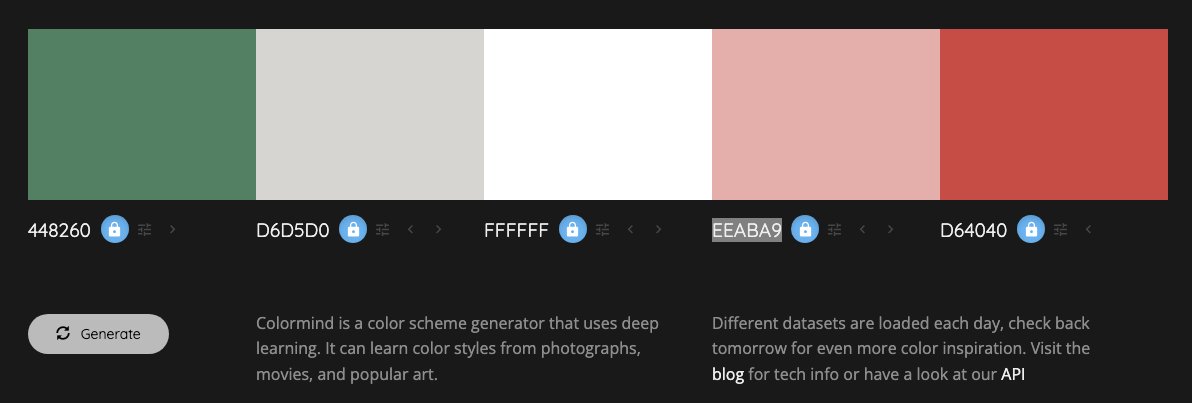
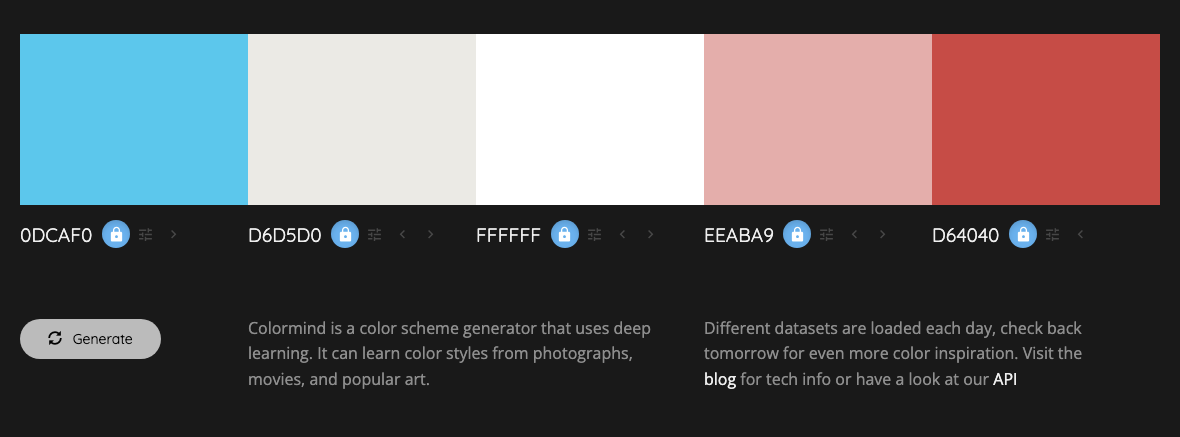
update the surface plane details in readme

diff --git a/README.md b/README.md
@@ -717,7 +717,7 @@ pantry_pilot/
 **Color Selection Process:**
 Color combinations were evaluated using [Colormind.io](http://colormind.io/) to ensure optimal contrast ratios, brand consistency, and accessibility compliance. 
 
-The warm red accent paired with earthy green creates a natural, food-focused aesthetic.
+The warm red accent paired with vibrant blue creates a natural, food-focused aesthetic.
 
 <figure>
   <img src="documentation/ux_surface_plane/color_palette.png" 
@@ -731,7 +731,7 @@ The warm red accent paired with earthy green creates a natural, food-focused aes
 **Primary Colors:**
 - **Light Color**: `#FFFFFF` (White) - Primary background and text
 - **Accent Color**: `#D64040` - Primary brand color for buttons and highlights
-- **Secondary Accent**: `#448260` - Supporting accent for success states and secondary actions
+- **Secondary Accent**: `#0DCAF0` - Supporting accent for success states and secondary actions
 
 **Supporting Colors:**
 - **Secondary Light**: `#D6D5D0` - Subtle backgrounds and borders
@@ -739,7 +739,7 @@ The warm red accent paired with earthy green creates a natural, food-focused aes
 
 **Color Usage:**
 - Primary navigation and key interactive elements use the main accent color
-- Success messages and confirmations use the secondary accent green
+- Secondary buttons use the secondary accent
 - Backgrounds maintain high contrast with white and light gray variations
 - Color-blind friendly palette ensuring accessibility compliance
 
@@ -769,5 +769,11 @@ The serif-dominant approach reinforces the warm, traditional cooking aesthetic w
 - **Headings**: Andada Pro for clear content hierarchy
 - **Body Text**: Pridi for optimal readability
 - **Navigation**: Andada Pro with custom sizing using CSS variables
+
+#### Imagery
+
+**Visual Strategy and Selection:**
+
+The imagery for PantryPilot was carefully curated from [Pexels.com](https://pexels.com/) to reinforce the website's core functionality and create an inviting, food-focused atmosphere. The visual strategy emphasizes fresh ingredients, organized kitchen spaces, and the joy of home cooking to align with the application's pantry management and meal planning features.
 
 </details>
